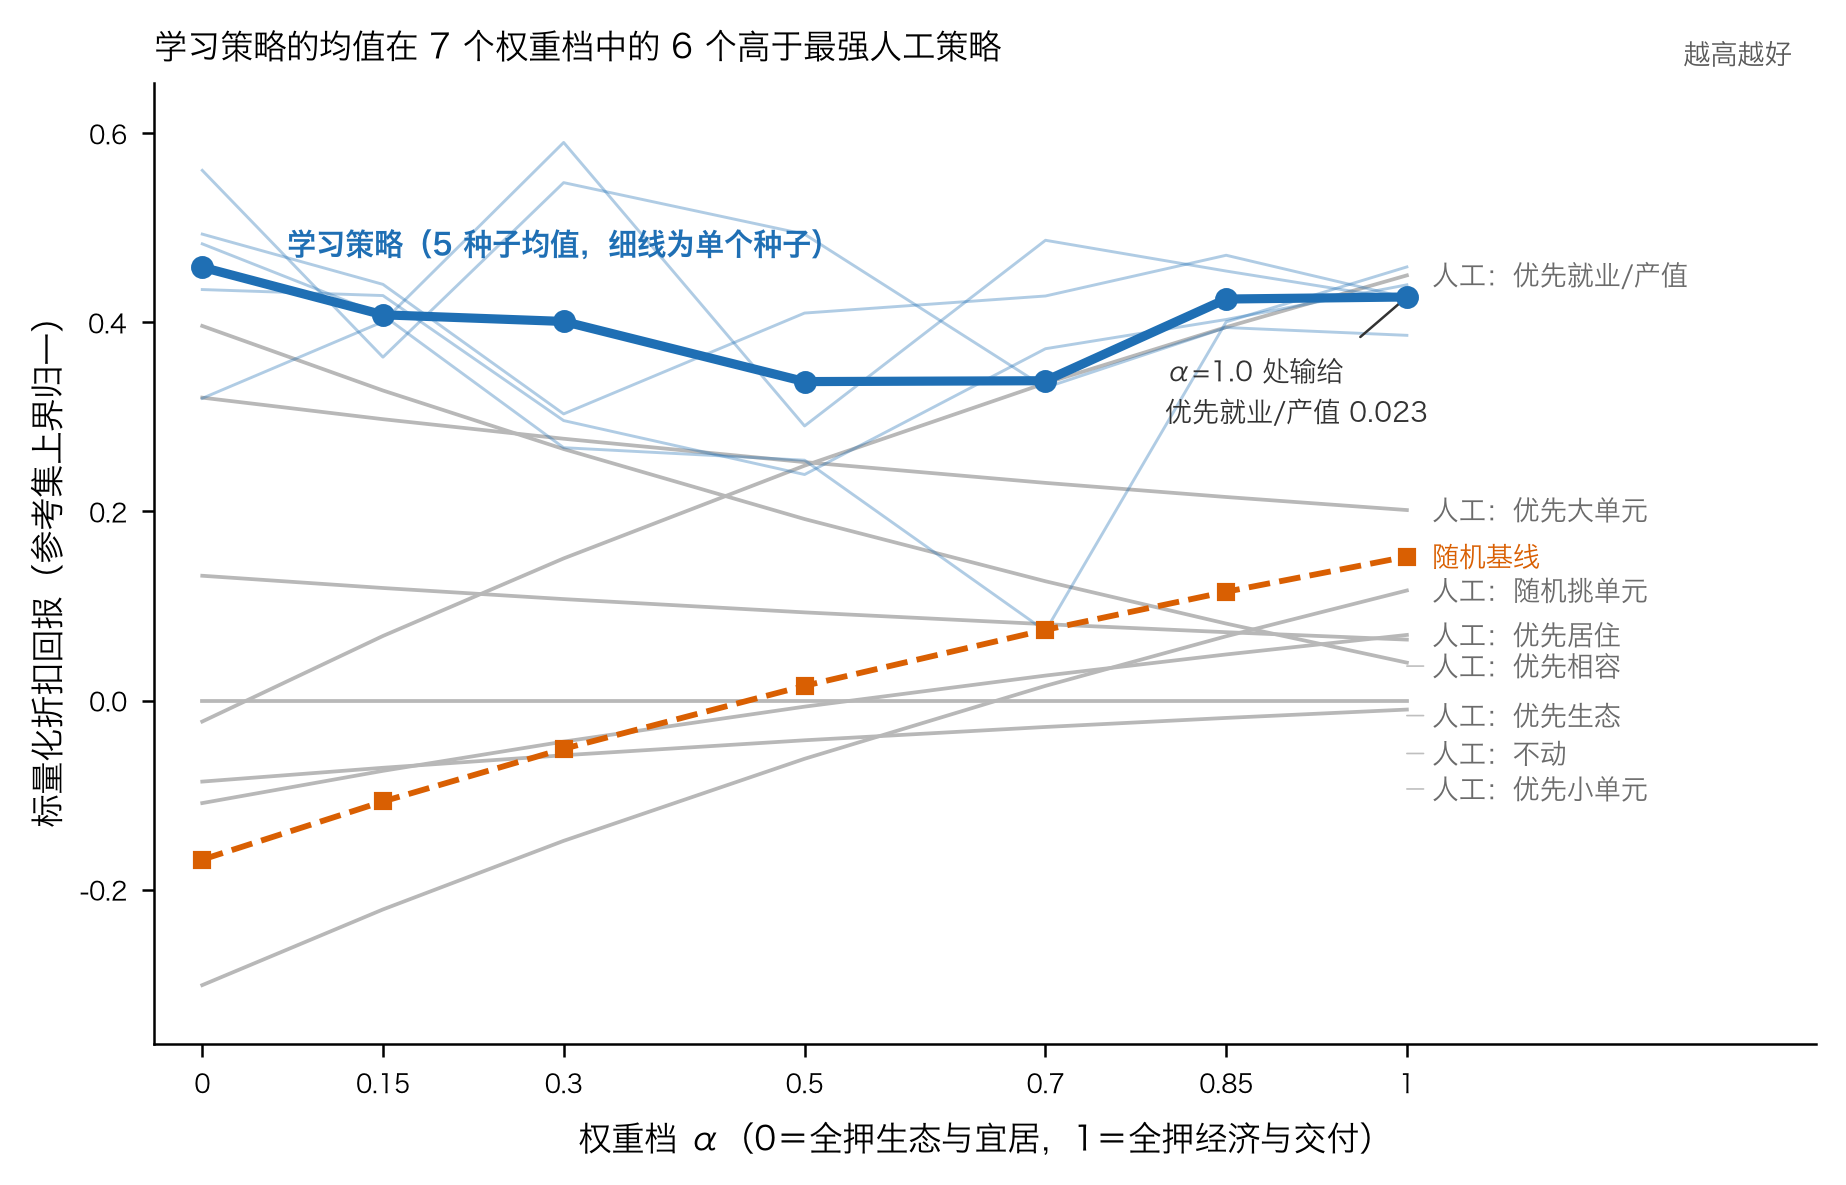
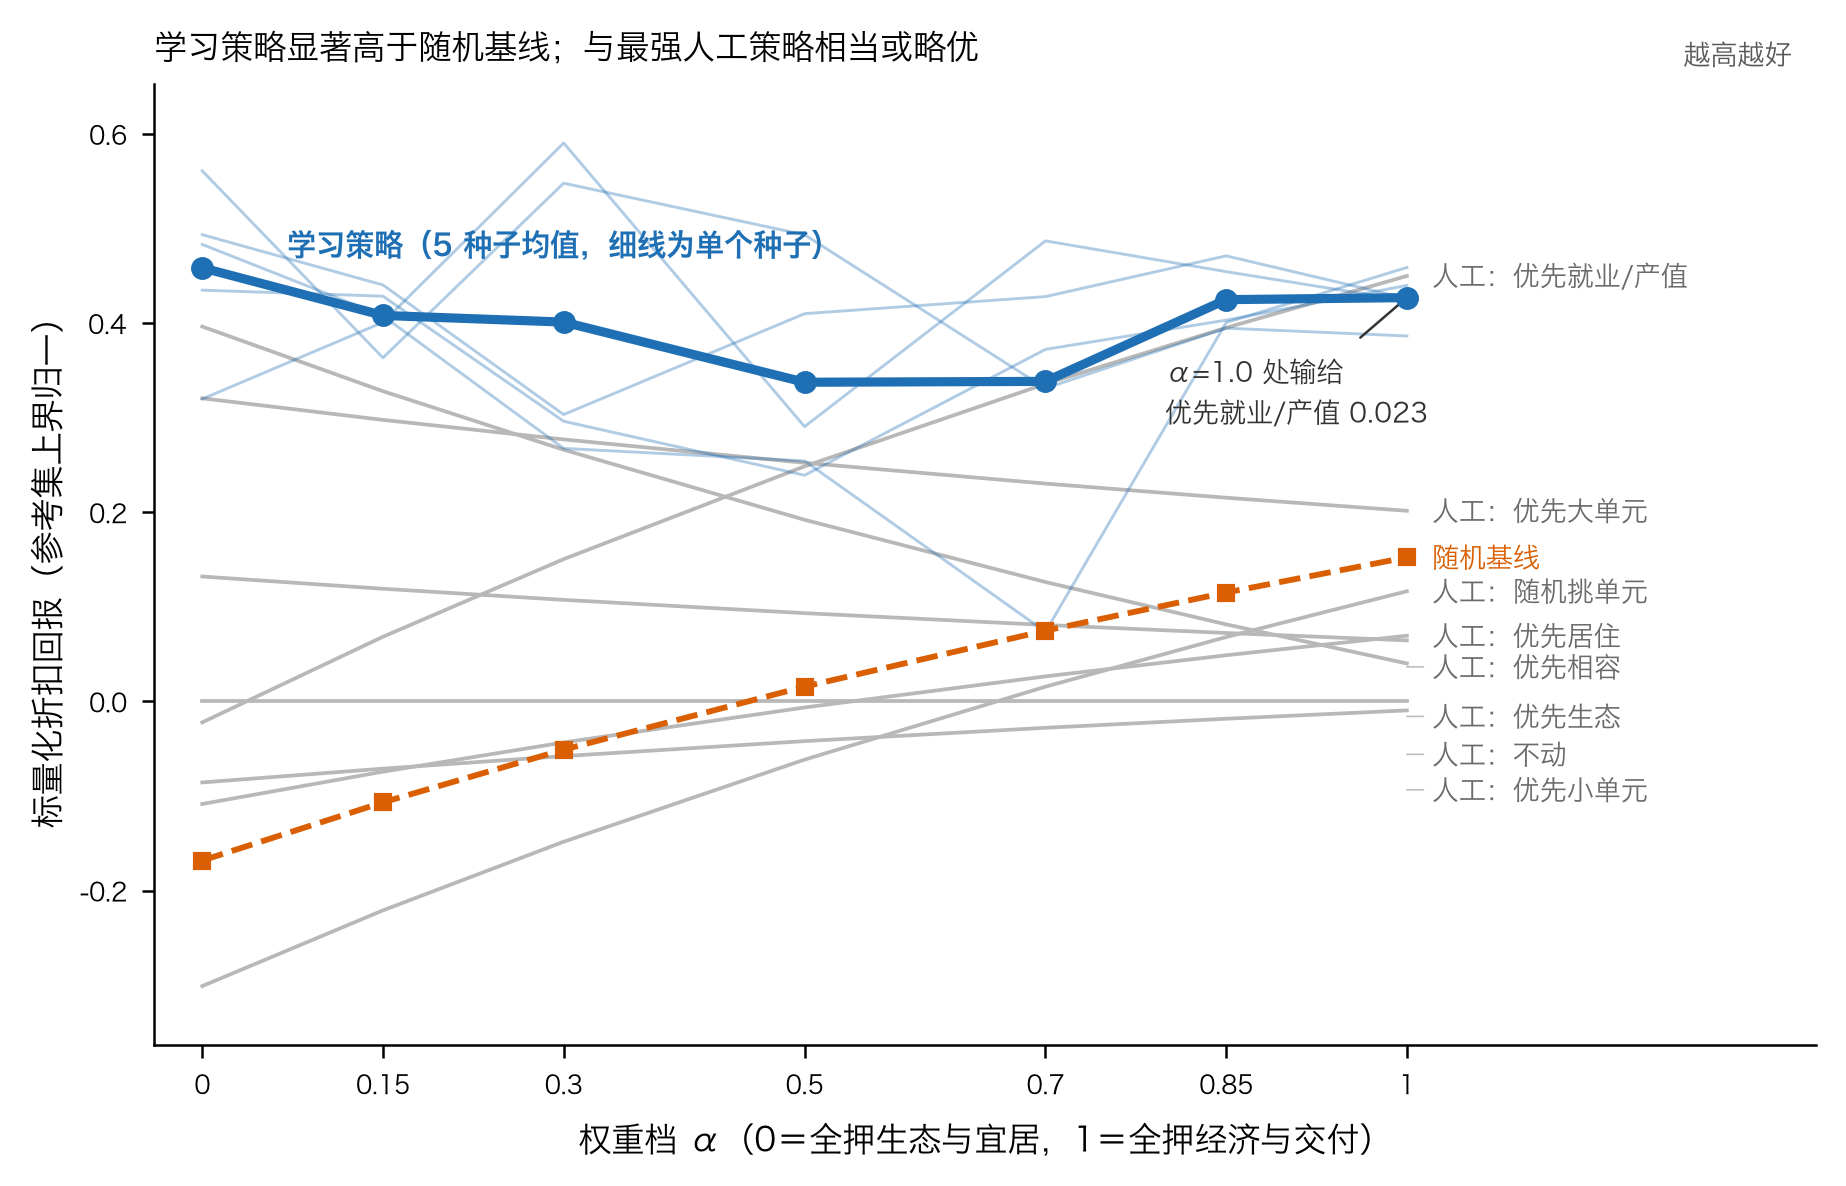
自评 v2：优化质量关未过；定位到归一化分母缺陷；主结论分母敏感性

diff --git a/docs/honest_assessment_v2.md b/docs/honest_assessment_v2.md
@@ -1,0 +1,177 @@
+# 现状自评 v2：优化质量这道关过了没有
+
+日期：2026-09-08。接 `honest_assessment_v1.md`。v1 §6 把"修优化质量"列为第一优先，
+理由是"这三条不修，上面任何时序结论都会在评审里被归因于欠收敛"。
+批次 v6 第 1 组（base，400 迭代 × 7 权重档 × 5 种子 = 35 次）就是为这道关跑的。
+
+**结论：这道关没过。但这一轮把"为什么过不去"从猜测变成了可定位的缺陷——
+这是诊断，不是修复。**
+
+---
+
+## 一、v1 §4 三条不利发现的现状
+
+### 1.1 交付建面输给随机基线：没修好，而且是全线输（✗）
+
+| | 随机基线 | 学习策略最好 | 学习策略最差 | 胜过随机的档数 |
+|---|---|---|---|---|
+| `Floor` 交付建面 | 2.564e6 | 2.340e6（α=0.85） | 1.707e6（α=0.7） | **0/7** |
+| `Res` 居住承载 | +122 | −5.75（α=0.85） | −1586（α=0） | **0/7** |
+| `E2r` | 156.6 | 474.9 | 65.6 | 5/7 |
+| `Gdp` | 143.1 | 2426 | −157.3 | 5/7 |
+
+最好的一档也比随机少 8.7% 交付建面，最差的少 33%。v1 §4.1 这条在 400 迭代、
+5 种子之后**依然成立**，所以不能再解释为欠收敛或单种子偶然。
+
+### 1.2 前沿的支配问题：比 v1 更糟（✗）
+
+（`Gdp`, `Floor`）二维投影上，**7 个权重档有 6 个被其他档支配**（v1 是 2/3）。
+α=0.85 一档几乎支配所有其他档。11 维上互不支配，但 11 个目标里互不支配几乎自动成立，
+不能当作辩护。**论文里必须停止使用"帕累托前沿"，改称"权重扫描解集"，并报告支配比例。**
+
+### 1.3 收敛与单种子：修好了一半（△）
+
+- **单种子问题关闭**：每档 5 种子已完成，得分标准差 0.027–0.159。
+- **收敛仍未达到**：35 条曲线里 20 条末段斜率为正，末四分之一相对增幅中位 +3.4%
+  （范围 −13.4% ～ +57.3%）。
+- 但关键在于：**末段增幅（3.4%）远小于种子间离散（标准差最大 0.159）。
+  瓶颈不是迭代次数，是噪声。** 继续加迭代换不来结论上的确定性。
+
+---
+
+## 二、这一轮真正的收获：找到了 1.1 的成因，且不是欠收敛
+
+把 α=0.5 处"学习策略优于随机 0.3218"这个差额按目标逐项拆开：
+
+| 目标 | 权重 | 学习贡献 | 随机贡献 | 差额 |
+|---|---|---|---|---|
+| `Aec` | 0.147 | 0.1607 | −0.0218 | **+0.1825** |
+| `Gdp` | 0.147 | 0.0644 | 0.0059 | +0.0585 |
+| `Emp` | 0.147 | 0.0511 | 0.0003 | +0.0508 |
+| `Eco` | 0.147 | 0.0473 | 0.0091 | +0.0381 |
+| `Floor` | 0.147 | 0.1065 | 0.1402 | **−0.0337** |
+| 其余 6 项 | — | — | — | 合计 +0.0256 |
+
+优势的 57% 来自 `Aec` 一项，而 `Floor` 是负贡献。注意 `Aec` 的归一化贡献 0.1607
+**超过了它的权重 0.1471**——归一化后大于 1。查下去：
+
+**参考集分母不是有效上界。**
+
+| 目标 | 分母（参考集绝对值上界） | 学习策略归一化后最大 | 35 次运行里越界次数 |
+|---|---|---|---|
+| `Aec` | 3105 | **1.192**（单次最高 2.079） | 10/35 |
+| `Eco` | 1937 | **1.041**（单次最高 1.215） | 6/35 |
+| `Floor` | 2.691e6 | 0.870 | 2/35 |
+
+9 个人工策略根本没有把 `Aec`、`Eco` 的可达范围包住。后果是：在标量化目标里，
+同样的权重下 `Aec` 每单位努力的得分是 `Floor` 的两倍多，
+**策略去追 `Aec` 而放弃 `Floor` 是理性的，不是学坏了。**
+
+这把 v1 §4.1 从"可能是欠收敛，也可能是少做更优吸引子"收窄成一个**具体且可修的缺陷**：
+标量化的归一化基准选错了。
+
+---
+
+## 三、主结论对分母的敏感性
+
+把分母改成"参考集 ∪ 学习策略"的逐目标上界（`Eco` 1937→2354、`Aec` 3105→6455、
+`Floor` 2.691e6→3.609e6、`Cpt` 2433→2635），重算：
+
+| | 原分母 | 修正分母 |
+|---|---|---|
+| 胜过最强人工策略 | 6/7 | **5/7**（α=0.7 翻转） |
+| 胜过随机基线 | 7/7 | **7/7** |
+| 差距超出该档种子标准差 | 仅 α=0.15 | 仅 α=0.15 |
+
+**稳的**：显著优于随机基线，两套分母下都是 7/7，差距 0.09–0.63，远超种子离散。
+
+**不稳的**：与最强人工策略的比较随分母在 6/7 和 5/7 之间摆动，且两套分母下都只有
+α=0.15 一档的差距超出种子噪声。**"与人工策略相当或略优"是能写的上限，
+"全面超越"不能写。**
+
+---
+
+## 四、能不能支撑论文主张
+
+论文的主张（v1 §1、§3）是：规划不是一次性布局，而是一条有时钟的法律通道，
+真正难的问题是"这块地现在值不值得动，还是再等几年"；而**等待有价值当且仅当
+未来的机会集优于现在**。
+
+**这批实验没有检验这个主张。** 它检验的是优化质量——也就是那道**把关的门**。
+
+- **支撑了地基**：策略在全部 7 个权重档显著优于随机，说明它确实学到了东西、
+  不是乱动。这是任何时序结论的必要前提，v1 时只有单种子、无法与噪声区分，现在有了。
+- **没有支撑主张本身**：不能称帕累托前沿；不能主张交付建面上的优势；
+  与人工策略的优势在噪声内。
+- **v1 §6 那句话依然成立**：这三条不修，时序结论会被归因于优化不足。**现在还不能投。**
+
+差别在于：v1 时这三条是"不知道为什么"，现在 1.1 有了可定位的成因、1.3 有了
+"瓶颈是噪声不是迭代"的判断、1.2 有了准确的支配比例。**从"有问题"走到了"知道改哪里"。**
+
+---
+
+## 五、后续路线与优劣
+
+| 路线 | 内容 | 优 | 劣 | 成本 |
+|---|---|---|---|---|
+| **A 修归一化/标量化** | 分母改为迭代上界或改用切比雪夫标量化 | 直接解释 1.1、缓解 1.2；审稿人必问，先手做掉；已证明它在改结论 | 前面全部数字要重算 | 改代码 + 1 组 2.7h |
+| **B 加强优化** | 加迭代、调超参、换算法 | 直接对 1.3 | 数据显示不是瓶颈（末段 3.4% < 种子离散）；花 16h 换 3% | 最高 |
+| **C 反事实评估** | 无增长策略 × 增长环境 | 直接支撑核心主张，不需新数据 | 需先把策略权重落盘（现在没存） | 改代码 + 少量重跑 |
+| **D 换真前沿方法** | 加权切比雪夫或多目标 RL | 能名正言顺叫前沿 | 改核心算法，工作量大 | 高 |
+| **E 真实项目外部检验** | 14 个项目，只比先后次序或按 3/5 年一档 | IJGIS 最看重的实证锚点；访谈已给出正确口径 | 样本仅 14 个 | 中 |
+| **F 工业置换成对机制** | 动一块须在别处补一块产业用地 | 可能解释"最该开发的地最晚动"的反常 | 工作量大 | 高 |
+
+### 站在 IJGIS 的角度
+
+IJGIS 看重三件事：地理过程的表达是否忠实、方法是否可复现、结论是否有实证锚点。
+它**不**以算法新颖性为主要门槛——用加权和不会被拒，把加权和叫成帕累托前沿会被拒。
+
+**推荐顺序：A → C → E。B 放弃，D 推后，F 留作 future work。**
+
+- **A 必做**：归一化与标量化的选择是审稿人一定会追问的方法学点，而且已经实测到
+  它在改结论（6/7↔5/7）。自己先做掉、并把敏感性表放进论文，比被问出来好得多。
+- **C 次之**：它把核心主张从"情景演示"推向"机制证明"，且不需要新数据——
+  这是投入产出比最高的一步。
+- **E 第三**：14 个真实项目是全篇唯一的实证锚点，IJGIS 尤其看这个。按访谈第 4 条的
+  口径（只比先后次序，或按 3 年、5 年一档），14 个样本是可用的。
+- **B 不做**：末段增幅 3.4% 小于种子离散，加迭代买不到确定性。
+- **D 推后**：只要文中不称"帕累托前沿"、如实报告支配比例，加权和是可接受的。
+
+---
+
+## 六、Checklist
+
+### P0 投稿前必做
+
+1. 改 `src/tpmorl/rl/scale.py` 的分母定义：由"仅参考集绝对值上界"改为
+   "参考集 ∪ 学习策略"的迭代上界（或改用切比雪夫标量化），并把分母来源写进方法节。
+2. 按新分母重跑 base 一组（2.7h），确认 `Floor`/`Res` 与随机基线的对比走向是否改变。
+3. 在 `scripts/exp_opt_quality.py` 里把 `evaluate` 的逐年记录与策略网络权重一并落盘——
+   否则"后半程不可交付区是否乱动"、反事实评估、任何事后复查都做不了。**这是当前最卡的缺口。**
+4. 全文停用"帕累托前沿"，改称"权重扫描解集"，并如实报告（`Gdp`,`Floor`）投影上
+   6/7 被支配。
+5. 查明 `emp` 与 `gdp` 两个参考策略逐位相同的成因（参考集实际只有 8 个互异成员）。
+   两个候选：允许目标功能集受限使两者收敛；或成本并列主导选择（候选单元 97.2%
+   成本值并列，最大并列组 92 个）。
+6. 结果节明确写出：与人工策略的优势只有 α=0.15 一档超出种子噪声；
+   优于随机基线是 7/7 且远超噪声。
+
+### P1 强烈建议
+
+7. 反事实评估：无增长策略在增长环境下评估，把 `Floor` 增量拆成机械部分与策略部分
+   （v1 §3.4 挂着的那个反事实）。
+8. 14 个真实项目的时序外部检验，按次序或 3/5 年一档比对。
+9. 敏感性只跑 relax2 + statutory 两组（约 5.5h）；relax0/relax5 省掉——
+   已实测冷却期规格不是主结果驱动因素（v4 vs v6 得分差正负不一致且在种子离散内）。
+10. 方法节写明 5 种子重复与完整离散范围（0.027–0.159）。
+
+### P2 下一轮 / future work
+
+11. 工业用地置换的成对机制（访谈第 6 条）。
+12. 取得历年容积率上限或补偿标准时间序列，替换 `FAR_GROWTH`。
+13. 与 MOGNNAC / LUP-PPO 同数据对比。
+
+### 未变的数据证据缺口（v0 §3.4，一条未变）
+
+更新单元边界在平台上不存在（717 个候选由 pSO 栅格构造）、P1–P4 通道归属与 P6 生态线
+为代理、分目标类别的容积率上限不存在、光明区真实项目仅 14 个、建筑建成年份拿不到。
